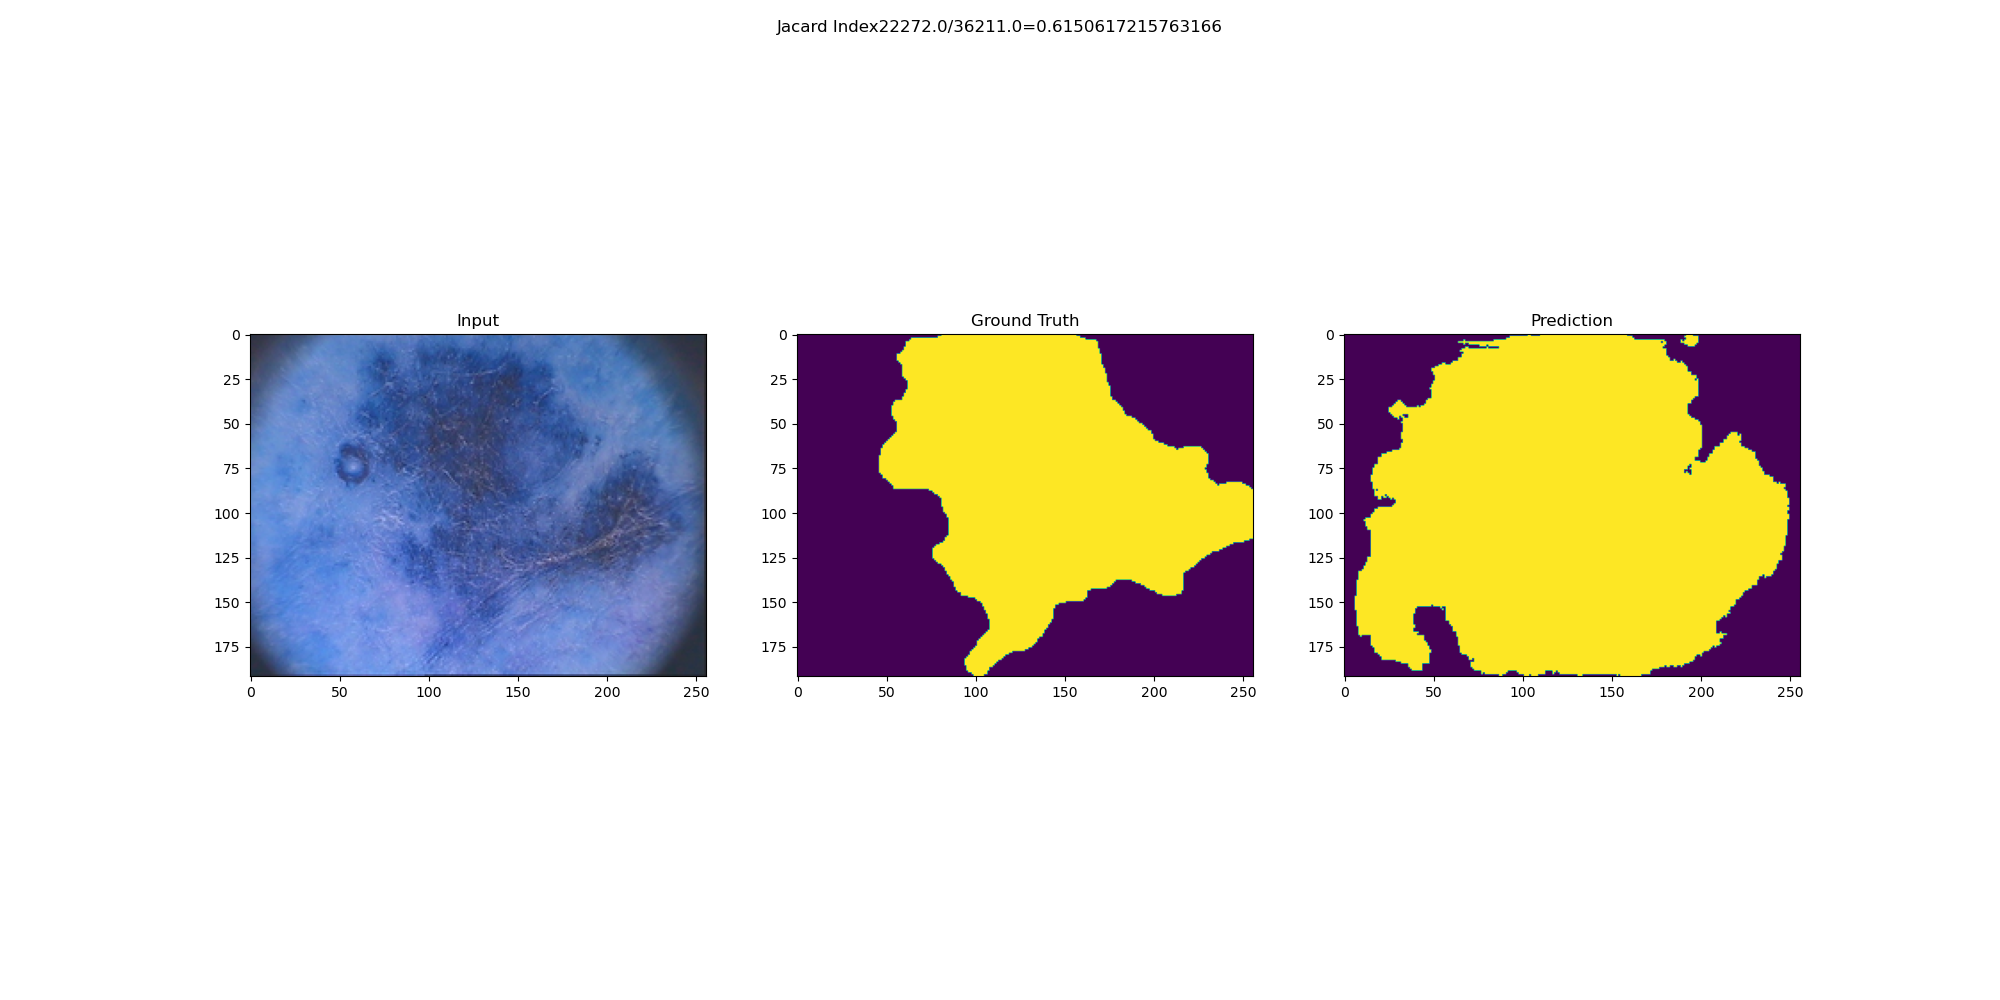
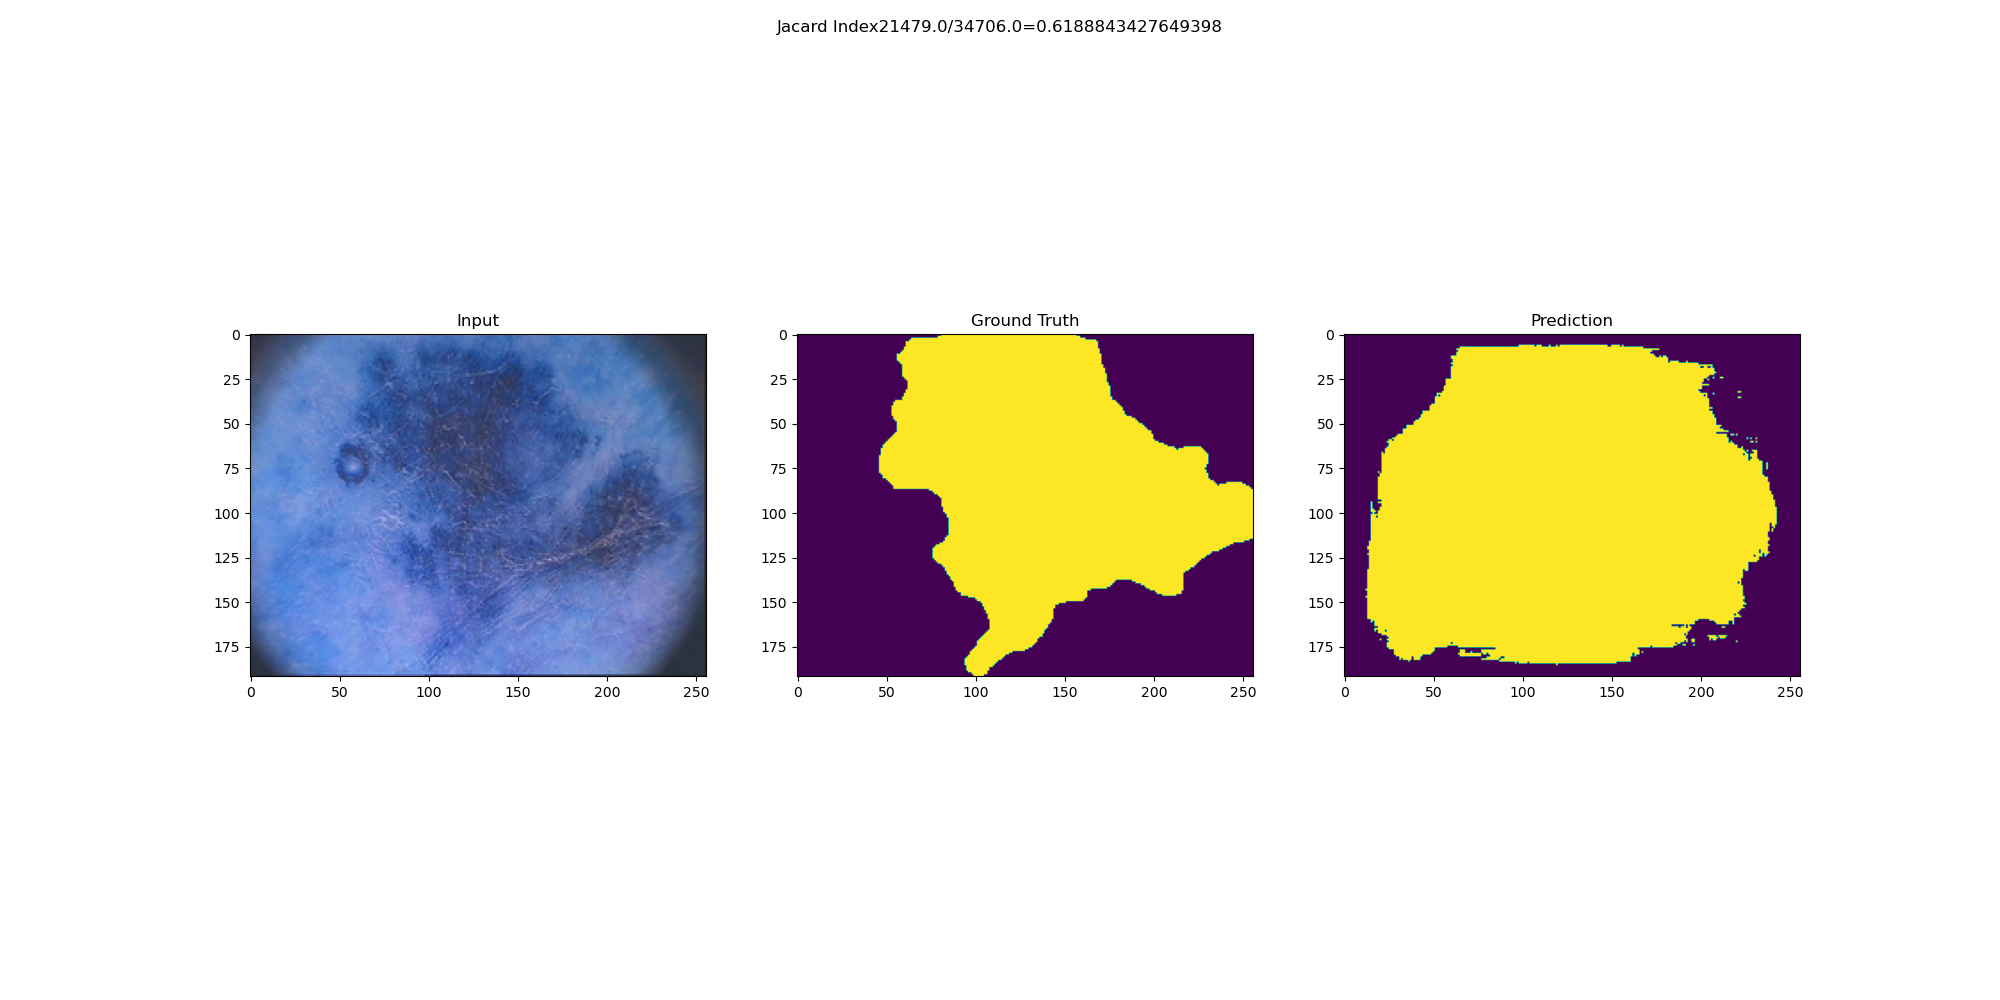
bad

diff --git a/SKIN_LESION/drrmsan_tests/tests.py b/SKIN_LESION/drrmsan_tests/tests.py
@@ -274,7 +274,7 @@ for i in range(20):
     fp = open('models/best_attn_1_bothsides_skinleison.txt','w')
     fp.write('-1.0')
     fp.close()
-    trainStep(model, X_train, Y_train, X_test, Y_test, epochs=150, batchSize=2)
+    trainStep(model, X_train, Y_train, X_test, Y_test, epochs=20, batchSize=2)
 
 
 
